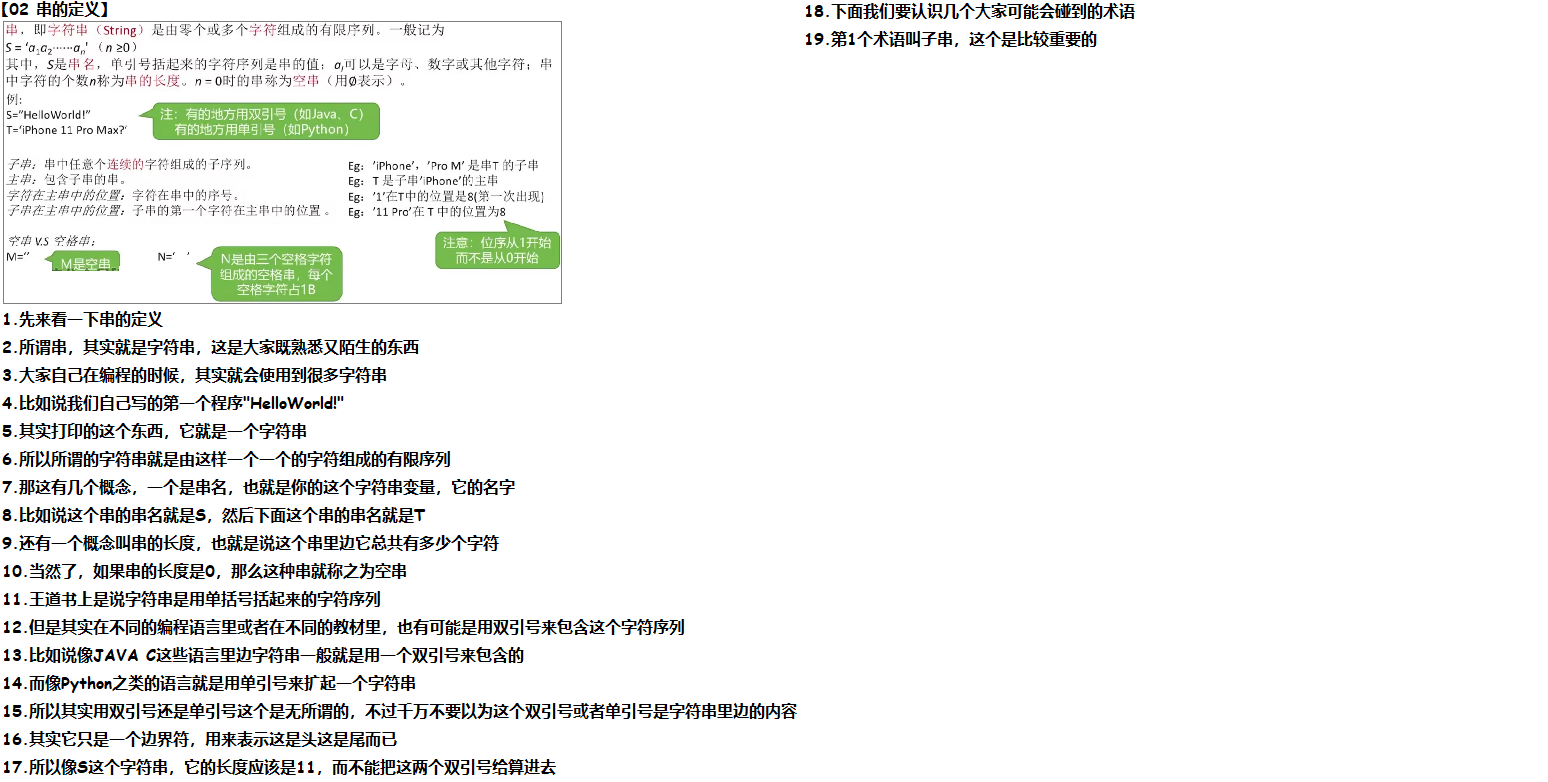
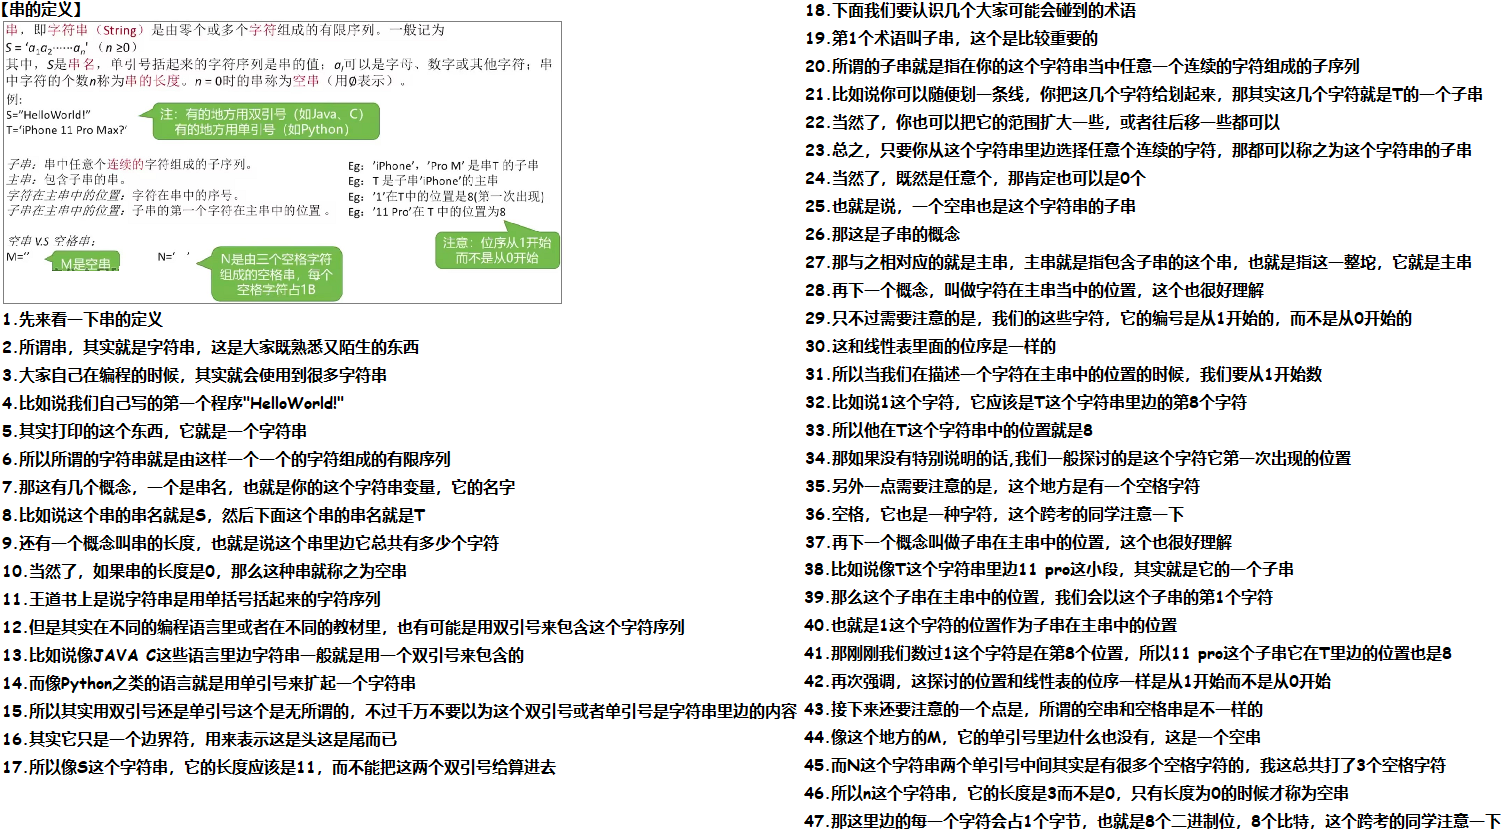
250122

Changed region(s): [[0.0, 0.0, 0.998, 1.0]]

diff --git a/01 初试/01 408真题/01 24408/01 刷题/01 单项选择题/06 单选6 2‘ 改进型KMP算法/01 视频/01 25 王道 考点讲解/01 串/01 串的定义和实现/01 串的定义和基本操作 240122/02 Doc.md b/01 初试/01 408真题/01 24408/01 刷题/01 单项选择题/06 单选6 2‘ 改进型KMP算法/01 视频/01 25 王道 考点讲解/01 串/01 串的定义和实现/01 串的定义和基本操作 240122/02 Doc.md
@@ -4,9 +4,38 @@
 
 # 01 知识总览
 
-<img src="https://cvp.oss-cn-shanghai.aliyuncs.com/202501221433648.png" alt="image-20250122143331537" style="zoom:50%;" />
+<img src="https://cvp.oss-cn-shanghai.aliyuncs.com/202501221516827.png" alt="image-20250122151607739" style="zoom:50%;" />
 
 
 
 # 02 串的定义
 
+<img src="https://cvp.oss-cn-shanghai.aliyuncs.com/202501221517596.png" alt="image-20250122151708445" style="zoom:50%;" />
+
+
+
+# 03 串 v.s 线性表
+
+<img src="https://cvp.oss-cn-shanghai.aliyuncs.com/202501221545391.png" alt="image-20250122154545266" style="zoom:50%;" />
+
+
+
+# 04 串的基本操作
+
+<img src="https://cvp.oss-cn-shanghai.aliyuncs.com/202501221615138.png" alt="image-20250122161536046" style="zoom:50%;" />
+
+
+
+# 05 串的比较操作
+
+<img src="https://cvp.oss-cn-shanghai.aliyuncs.com/202501221653918.png" alt="image-20250122165359837" style="zoom:50%;" />
+
+
+
+# 06 字符集编码
+
+<img src="https://cvp.oss-cn-shanghai.aliyuncs.com/202501221731924.png" alt="image-20250122173110786" style="zoom:50%;" />
+
+
+
+# 07 拓展：乱码问题
